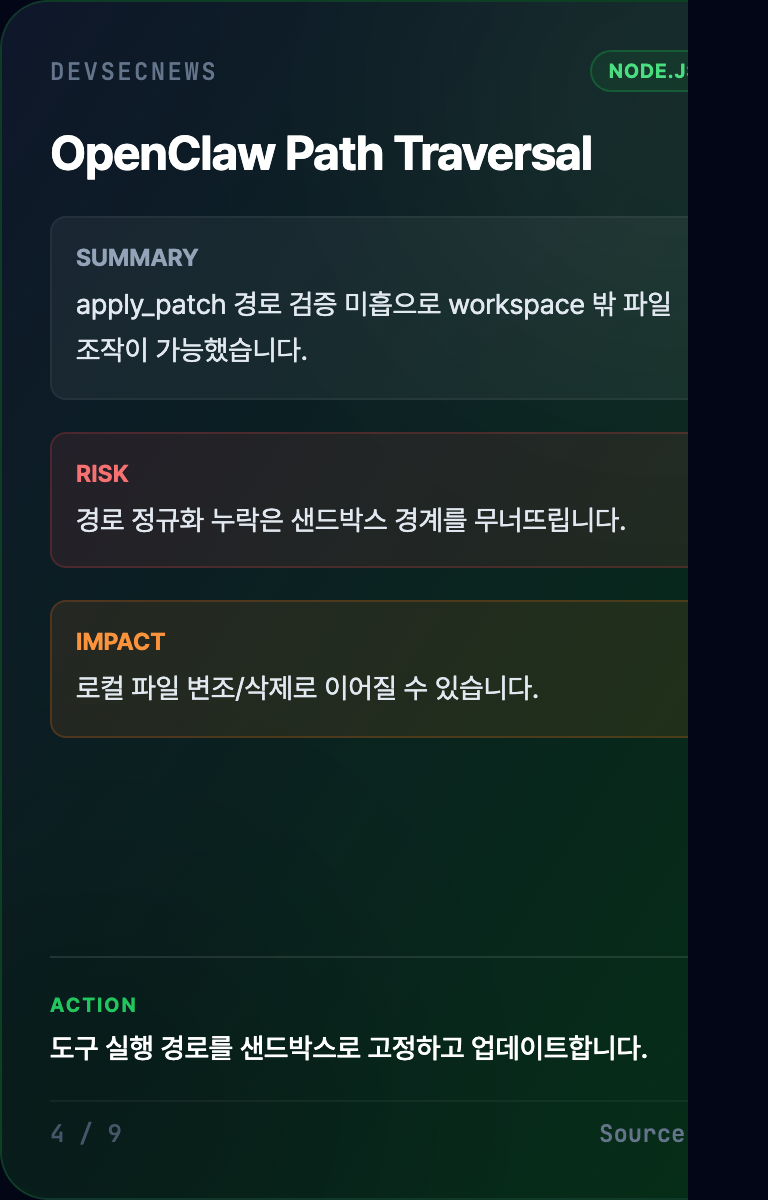
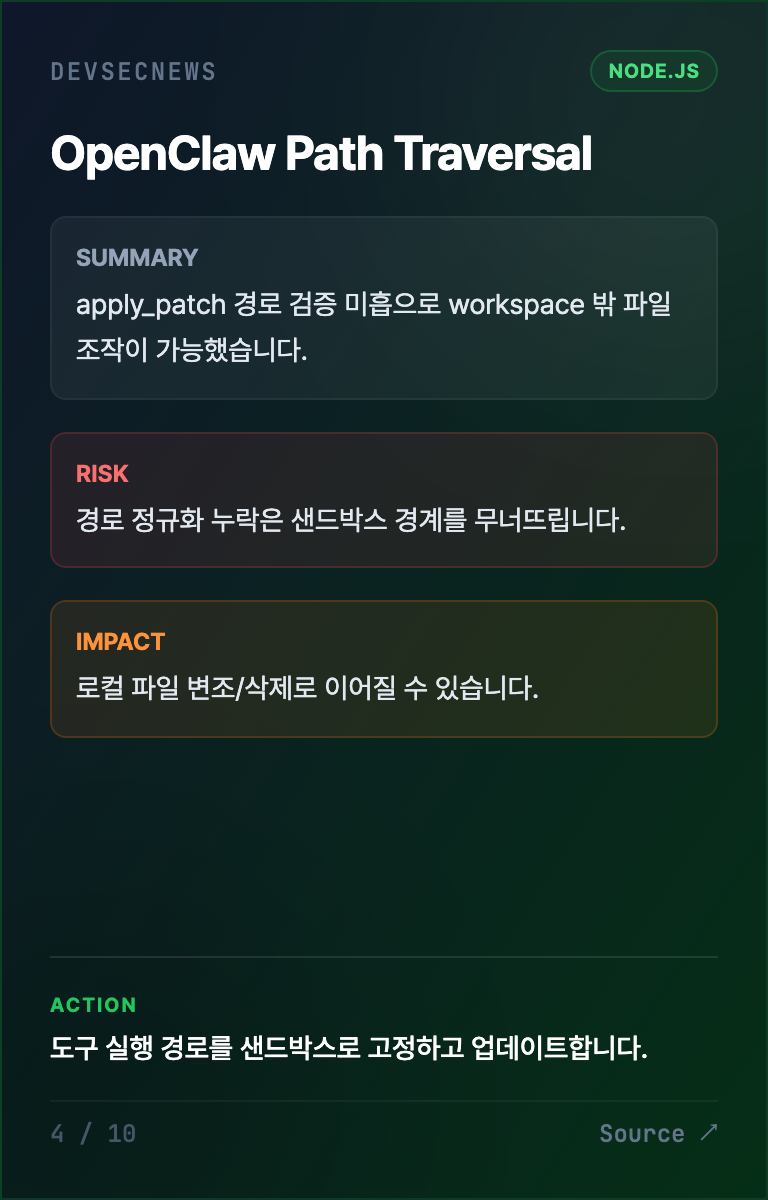
Add dedicated self-check CTA card for Feb 2026 deck

diff --git a/cards/devsecnews-2026-02-node-java/cards.html b/cards/devsecnews-2026-02-node-java/cards.html
@@ -175,7 +175,7 @@
             </div>
             
             <div class="mt-4 flex justify-between items-center pt-2 border-t border-white/5">
-              <span class="text-xs text-slate-600 font-mono">1 / 9</span>
+              <span class="text-xs text-slate-600 font-mono">1 / 10</span>
               <a href="https://ai.google/static/documents/ai-responsibility-update-2026.pdf" target="_blank" class="text-xs font-mono text-slate-500 hover:text-white transition-colors ml-auto">Source ↗</a>
             </div>
           </div>
@@ -211,7 +211,7 @@
             </div>
             
             <div class="mt-4 flex justify-between items-center pt-2 border-t border-white/5">
-              <span class="text-xs text-slate-600 font-mono">2 / 9</span>
+              <span class="text-xs text-slate-600 font-mono">2 / 10</span>
               <a href="https://opensourcemalware.com/blog/malicious-clawhub-skills-hide-in-plain-sight" target="_blank" class="text-xs font-mono text-slate-500 hover:text-white transition-colors ml-auto">Source ↗</a>
             </div>
           </div>
@@ -250,7 +250,7 @@
 </div>
            </div>
             <div class="mt-4 flex justify-between items-center pt-2 border-t border-white/5">
-              <span class="text-xs text-slate-600 font-mono">3 / 9</span>
+              <span class="text-xs text-slate-600 font-mono">3 / 10</span>
               <a href="https://github.com/advisories/GHSA-hmx5-qpq5-p643" target="_blank" class="text-xs font-mono text-slate-500 hover:text-white transition-colors ml-auto">Source ↗</a>
             </div>
           </div>
@@ -289,7 +289,7 @@
 </div>
            </div>
             <div class="mt-4 flex justify-between items-center pt-2 border-t border-white/5">
-              <span class="text-xs text-slate-600 font-mono">4 / 9</span>
+              <span class="text-xs text-slate-600 font-mono">4 / 10</span>
               <a href="https://github.com/advisories/GHSA-r5fq-947m-xm57" target="_blank" class="text-xs font-mono text-slate-500 hover:text-white transition-colors ml-auto">Source ↗</a>
             </div>
           </div>
@@ -328,7 +328,7 @@
 </div>
            </div>
             <div class="mt-4 flex justify-between items-center pt-2 border-t border-white/5">
-              <span class="text-xs text-slate-600 font-mono">5 / 9</span>
+              <span class="text-xs text-slate-600 font-mono">5 / 10</span>
               <a href="https://github.com/advisories/GHSA-6c9j-x93c-rw6j" target="_blank" class="text-xs font-mono text-slate-500 hover:text-white transition-colors ml-auto">Source ↗</a>
             </div>
           </div>
@@ -367,7 +367,7 @@
 </div>
            </div>
             <div class="mt-4 flex justify-between items-center pt-2 border-t border-white/5">
-              <span class="text-xs text-slate-600 font-mono">6 / 9</span>
+              <span class="text-xs text-slate-600 font-mono">6 / 10</span>
               <a href="https://github.com/advisories/GHSA-fpj8-gq4v-p354" target="_blank" class="text-xs font-mono text-slate-500 hover:text-white transition-colors ml-auto">Source ↗</a>
             </div>
           </div>
@@ -406,7 +406,7 @@
 </div>
            </div>
             <div class="mt-4 flex justify-between items-center pt-2 border-t border-white/5">
-              <span class="text-xs text-slate-600 font-mono">7 / 9</span>
+              <span class="text-xs text-slate-600 font-mono">7 / 10</span>
               <a href="https://github.com/advisories/GHSA-rp46-r563-jrc7" target="_blank" class="text-xs font-mono text-slate-500 hover:text-white transition-colors ml-auto">Source ↗</a>
             </div>
           </div>
@@ -445,7 +445,7 @@
 </div>
            </div>
             <div class="mt-4 flex justify-between items-center pt-2 border-t border-white/5">
-              <span class="text-xs text-slate-600 font-mono">8 / 9</span>
+              <span class="text-xs text-slate-600 font-mono">8 / 10</span>
               <a href="https://github.com/advisories/GHSA-qq5r-98hh-rxc9" target="_blank" class="text-xs font-mono text-slate-500 hover:text-white transition-colors ml-auto">Source ↗</a>
             </div>
           </div>
@@ -515,8 +515,40 @@
 </div>
            </div>
             <div class="mt-4 flex justify-between items-center pt-2 border-t border-white/5">
-              <span class="text-xs text-slate-600 font-mono">9 / 9</span>
+              <span class="text-xs text-slate-600 font-mono">9 / 10</span>
               <a href="https://github.com/advisories/GHSA-hmx5-qpq5-p643" target="_blank" class="text-xs font-mono text-slate-500 hover:text-white transition-colors ml-auto">Source ↗</a>
+            </div>
+          </div>
+          
+          <!-- Background Decoration -->
+          <div class="absolute -top-20 -right-20 w-64 h-64 bg-white/5 rounded-full blur-3xl pointer-events-none"></div>
+          <div class="absolute -bottom-20 -left-20 w-64 h-64 bg-black/20 rounded-full blur-3xl pointer-events-none"></div>
+        </article>
+      
+
+        <!-- Card -->
+        <article class="card snap-center flex-shrink-0 w-[85vw] max-w-sm h-full max-h-[600px] flex flex-col relative bg-gradient-to-br from-slate-800 to-slate-900 border-slate-700 border rounded-3xl shadow-2xl overflow-hidden snap-always">
+          <div class="flex-1 min-h-0 flex flex-col p-6 z-10">
+            
+        <div class="flex items-center gap-2 mb-4">
+          <span class="text-xs font-mono uppercase tracking-widest text-slate-500">DEVSECNEWS</span>
+          <div class="flex gap-1 ml-auto"><span class="px-2 py-0.5 rounded-full text-[10px] font-bold uppercase tracking-wider border bg-slate-800 text-slate-300 border-slate-600">Guide</span></div>
+        </div>
+      
+            <h2 class="text-2xl font-bold text-white leading-tight mb-4 tracking-tight">개발자 셀프 체크 가이드 및 툴</h2>
+            <div class="card-scroll flex-1 min-h-0 overflow-y-auto overscroll-contain no-scrollbar mask-fade-bottom">
+              
+          <div class="space-y-3 mt-2">
+            <div class="p-3 rounded-lg bg-white/5 border border-white/5 text-slate-200 leading-relaxed"><p>월간 점검을 마친 뒤 아래 링크로 바로 실행/신청/가이드 확인까지 이어가세요.</p>
+</div>
+            <div class="grid gap-2"><a href="http://code.skplanet.com/projects/VULCHK/repos/audit_result/browse?at=refs%2Fheads%2Fmain" target="_blank" rel="noopener noreferrer" class="inline-flex items-center justify-center rounded-lg border px-3 py-2 text-xs font-semibold text-white transition-colors text-center bg-sky-600/90 hover:bg-sky-500 border-sky-400/40">보안진단 플레이북(SKILLS) ↗</a><a href="https://wiki.skplanet.com/x/XjzEIw" target="_blank" rel="noopener noreferrer" class="inline-flex items-center justify-center rounded-lg border px-3 py-2 text-xs font-semibold text-white transition-colors text-center bg-emerald-600/90 hover:bg-emerald-500 border-emerald-400/40">보안진단 신청 페이지 ↗</a><a href="https://wiki.skplanet.com/pages/viewpage.action?pageId=237006490" target="_blank" rel="noopener noreferrer" class="inline-flex items-center justify-center rounded-lg border px-3 py-2 text-xs font-semibold text-white transition-colors text-center bg-amber-600/90 hover:bg-amber-500 border-amber-400/40">시큐어 코딩 가이드 ↗</a></div>
+          </div>
+        
+            </div>
+            
+            <div class="mt-4 flex justify-between items-center pt-2 border-t border-white/5">
+              <span class="text-xs text-slate-600 font-mono">10 / 10</span>
+              
             </div>
           </div>
           

diff --git a/docs/cards/devsecnews-2026-02-node-java/cards.html b/docs/cards/devsecnews-2026-02-node-java/cards.html
@@ -175,7 +175,7 @@
             </div>
             
             <div class="mt-4 flex justify-between items-center pt-2 border-t border-white/5">
-              <span class="text-xs text-slate-600 font-mono">1 / 9</span>
+              <span class="text-xs text-slate-600 font-mono">1 / 10</span>
               <a href="https://ai.google/static/documents/ai-responsibility-update-2026.pdf" target="_blank" class="text-xs font-mono text-slate-500 hover:text-white transition-colors ml-auto">Source ↗</a>
             </div>
           </div>
@@ -211,7 +211,7 @@
             </div>
             
             <div class="mt-4 flex justify-between items-center pt-2 border-t border-white/5">
-              <span class="text-xs text-slate-600 font-mono">2 / 9</span>
+              <span class="text-xs text-slate-600 font-mono">2 / 10</span>
               <a href="https://opensourcemalware.com/blog/malicious-clawhub-skills-hide-in-plain-sight" target="_blank" class="text-xs font-mono text-slate-500 hover:text-white transition-colors ml-auto">Source ↗</a>
             </div>
           </div>
@@ -250,7 +250,7 @@
 </div>
            </div>
             <div class="mt-4 flex justify-between items-center pt-2 border-t border-white/5">
-              <span class="text-xs text-slate-600 font-mono">3 / 9</span>
+              <span class="text-xs text-slate-600 font-mono">3 / 10</span>
               <a href="https://github.com/advisories/GHSA-hmx5-qpq5-p643" target="_blank" class="text-xs font-mono text-slate-500 hover:text-white transition-colors ml-auto">Source ↗</a>
             </div>
           </div>
@@ -289,7 +289,7 @@
 </div>
            </div>
             <div class="mt-4 flex justify-between items-center pt-2 border-t border-white/5">
-              <span class="text-xs text-slate-600 font-mono">4 / 9</span>
+              <span class="text-xs text-slate-600 font-mono">4 / 10</span>
               <a href="https://github.com/advisories/GHSA-r5fq-947m-xm57" target="_blank" class="text-xs font-mono text-slate-500 hover:text-white transition-colors ml-auto">Source ↗</a>
             </div>
           </div>
@@ -328,7 +328,7 @@
 </div>
            </div>
             <div class="mt-4 flex justify-between items-center pt-2 border-t border-white/5">
-              <span class="text-xs text-slate-600 font-mono">5 / 9</span>
+              <span class="text-xs text-slate-600 font-mono">5 / 10</span>
               <a href="https://github.com/advisories/GHSA-6c9j-x93c-rw6j" target="_blank" class="text-xs font-mono text-slate-500 hover:text-white transition-colors ml-auto">Source ↗</a>
             </div>
           </div>
@@ -367,7 +367,7 @@
 </div>
            </div>
             <div class="mt-4 flex justify-between items-center pt-2 border-t border-white/5">
-              <span class="text-xs text-slate-600 font-mono">6 / 9</span>
+              <span class="text-xs text-slate-600 font-mono">6 / 10</span>
               <a href="https://github.com/advisories/GHSA-fpj8-gq4v-p354" target="_blank" class="text-xs font-mono text-slate-500 hover:text-white transition-colors ml-auto">Source ↗</a>
             </div>
           </div>
@@ -406,7 +406,7 @@
 </div>
            </div>
             <div class="mt-4 flex justify-between items-center pt-2 border-t border-white/5">
-              <span class="text-xs text-slate-600 font-mono">7 / 9</span>
+              <span class="text-xs text-slate-600 font-mono">7 / 10</span>
               <a href="https://github.com/advisories/GHSA-rp46-r563-jrc7" target="_blank" class="text-xs font-mono text-slate-500 hover:text-white transition-colors ml-auto">Source ↗</a>
             </div>
           </div>
@@ -445,7 +445,7 @@
 </div>
            </div>
             <div class="mt-4 flex justify-between items-center pt-2 border-t border-white/5">
-              <span class="text-xs text-slate-600 font-mono">8 / 9</span>
+              <span class="text-xs text-slate-600 font-mono">8 / 10</span>
               <a href="https://github.com/advisories/GHSA-qq5r-98hh-rxc9" target="_blank" class="text-xs font-mono text-slate-500 hover:text-white transition-colors ml-auto">Source ↗</a>
             </div>
           </div>
@@ -515,8 +515,40 @@
 </div>
            </div>
             <div class="mt-4 flex justify-between items-center pt-2 border-t border-white/5">
-              <span class="text-xs text-slate-600 font-mono">9 / 9</span>
+              <span class="text-xs text-slate-600 font-mono">9 / 10</span>
               <a href="https://github.com/advisories/GHSA-hmx5-qpq5-p643" target="_blank" class="text-xs font-mono text-slate-500 hover:text-white transition-colors ml-auto">Source ↗</a>
+            </div>
+          </div>
+          
+          <!-- Background Decoration -->
+          <div class="absolute -top-20 -right-20 w-64 h-64 bg-white/5 rounded-full blur-3xl pointer-events-none"></div>
+          <div class="absolute -bottom-20 -left-20 w-64 h-64 bg-black/20 rounded-full blur-3xl pointer-events-none"></div>
+        </article>
+      
+
+        <!-- Card -->
+        <article class="card snap-center flex-shrink-0 w-[85vw] max-w-sm h-full max-h-[600px] flex flex-col relative bg-gradient-to-br from-slate-800 to-slate-900 border-slate-700 border rounded-3xl shadow-2xl overflow-hidden snap-always">
+          <div class="flex-1 min-h-0 flex flex-col p-6 z-10">
+            
+        <div class="flex items-center gap-2 mb-4">
+          <span class="text-xs font-mono uppercase tracking-widest text-slate-500">DEVSECNEWS</span>
+          <div class="flex gap-1 ml-auto"><span class="px-2 py-0.5 rounded-full text-[10px] font-bold uppercase tracking-wider border bg-slate-800 text-slate-300 border-slate-600">Guide</span></div>
+        </div>
+      
+            <h2 class="text-2xl font-bold text-white leading-tight mb-4 tracking-tight">개발자 셀프 체크 가이드 및 툴</h2>
+            <div class="card-scroll flex-1 min-h-0 overflow-y-auto overscroll-contain no-scrollbar mask-fade-bottom">
+              
+          <div class="space-y-3 mt-2">
+            <div class="p-3 rounded-lg bg-white/5 border border-white/5 text-slate-200 leading-relaxed"><p>월간 점검을 마친 뒤 아래 링크로 바로 실행/신청/가이드 확인까지 이어가세요.</p>
+</div>
+            <div class="grid gap-2"><a href="http://code.skplanet.com/projects/VULCHK/repos/audit_result/browse?at=refs%2Fheads%2Fmain" target="_blank" rel="noopener noreferrer" class="inline-flex items-center justify-center rounded-lg border px-3 py-2 text-xs font-semibold text-white transition-colors text-center bg-sky-600/90 hover:bg-sky-500 border-sky-400/40">보안진단 플레이북(SKILLS) ↗</a><a href="https://wiki.skplanet.com/x/XjzEIw" target="_blank" rel="noopener noreferrer" class="inline-flex items-center justify-center rounded-lg border px-3 py-2 text-xs font-semibold text-white transition-colors text-center bg-emerald-600/90 hover:bg-emerald-500 border-emerald-400/40">보안진단 신청 페이지 ↗</a><a href="https://wiki.skplanet.com/pages/viewpage.action?pageId=237006490" target="_blank" rel="noopener noreferrer" class="inline-flex items-center justify-center rounded-lg border px-3 py-2 text-xs font-semibold text-white transition-colors text-center bg-amber-600/90 hover:bg-amber-500 border-amber-400/40">시큐어 코딩 가이드 ↗</a></div>
+          </div>
+        
+            </div>
+            
+            <div class="mt-4 flex justify-between items-center pt-2 border-t border-white/5">
+              <span class="text-xs text-slate-600 font-mono">10 / 10</span>
+              
             </div>
           </div>
           
